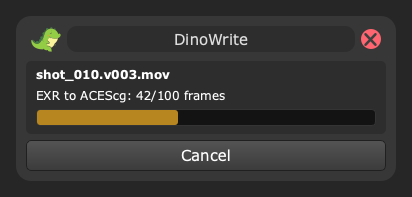
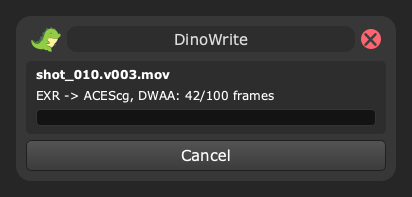
README and images: new window layout, animations, EXR compression, passport, scene audio, disk space

Changed region(s): [[0.1456, 0.4569, 0.6699, 0.5178], [0.0874, 0.5482, 0.4369, 0.6396]]

diff --git a/docs/make_images.py b/docs/make_images.py
@@ -17,8 +17,8 @@ ROOT = DOCS.parent
 sys.path.insert(0, (ROOT / "tests").as_posix())
 import conftest  # noqa: F401,E402  (hou stub, offscreen Qt, DinoWrite on sys.path)
 from PySide6 import QtWidgets  # noqa: E402
-from PySide6.QtCore import QPointF, QSize  # noqa: E402
-from PySide6.QtGui import QColor, QPainter, QPixmap  # noqa: E402
+from PySide6.QtCore import QEvent, QPointF, QSize  # noqa: E402
+from PySide6.QtGui import QColor, QEnterEvent, QPainter, QPixmap  # noqa: E402
 from PySide6.QtTest import QTest  # noqa: E402
 
 BACKGROUND = QColor("#262626")
@@ -62,7 +62,7 @@ def fakeHoudini(temp: Path):
     hou.getenv = lambda name, default=None: PREF_DIR if name == "HOUDINI_USER_PREF_DIR" else default
     hou.fps = lambda: 24.0
 
-    from DinoWrite.core import acescg, ffmpeg, viewport
+    from DinoWrite.core import acescg, ffmpeg, helpers, viewport
 
     viewer = types.SimpleNamespace(cameraName=lambda: "shotCam", cameraPixelAspect=lambda: 1.0,
                                    cameraResolution=lambda: (3840, 2160), cameraAspect=lambda: 16 / 9,
@@ -72,13 +72,14 @@ def fakeHoudini(temp: Path):
     ffmpeg.availableEncoders = lambda binary: {"h264_mf", "h264_nvenc", "mpeg4"}
     acescg.findOiiotool = lambda custom="": "$HFS/bin/hoiiotool"
     acescg.oiiotoolVersion = lambda tool: ()
+    helpers.freeSpace = lambda path: 512 * 1024 ** 3
     return main_window
 
 
 class FakeJob:
     """Conversion in the middle of EXR -> ACEScg, for the progress window"""
     title = "shot_010.v003.mov"
-    status = "EXR to ACEScg: 42/100 frames"
+    status = "EXR -> ACEScg, DWAA: 42/100 frames"
     progress = 0.42
     finished = succeeded = False
     error = ""
@@ -101,6 +102,7 @@ def main():
 
         window = DinoWrite.show({})
         stopFade(window)
+        QTest.qWait(900)  # parts of the window come in one after another
         window.filename.setText("shot_010")
         window.resx.setText("3840")
         window.resy.setText("2160")
@@ -109,10 +111,10 @@ def main():
         window.convertvideo.setChecked(True)
         for update in (window.updateRamUsage, window.updateColorfulLabel, window.updateStatus):
             update()
-        app.processEvents()
+        QTest.qWait(600)  # changed text blinks in
         onBackground(window).save((DOCS / "dinowrite.png").as_posix())
 
-        # Animation: hover a menu button, then WRITE
+        # Animation: hover a menu button, toggle a checkbox, new name (dino hops), then WRITE
         frames = []
 
         def record(count: int, wait: bool = True):
@@ -126,6 +128,14 @@ def main():
         window.res_menu.startHover(QPointF(6, 6))
         record(12)
         window.res_menu.endHover()
+        window.convertvideo.enterEvent(QEnterEvent(QPointF(5, 5), QPointF(5, 5), QPointF(5, 5)))
+        record(6)
+        window.convertvideo.setChecked(False)
+        record(10)
+        window.convertvideo.leaveEvent(QEvent(QEvent.Leave))
+        window.filename.setText("shot_020")
+        window.updateColorfulLabel()
+        record(14)
         window.writebutton.startHover(QPointF(90, 20))
         record(18)
         window.writebutton.endHover()
@@ -137,7 +147,7 @@ def main():
         window.resy.setText("1600")
         window.updateRamUsage()
         window.updateStatus()
-        app.processEvents()
+        QTest.qWait(600)
         onBackground(window.statusline.parentWidget(), pad=8).save((DOCS / "aspect_warning.png").as_posix())
         window.close()
 
@@ -147,7 +157,7 @@ def main():
         app.processEvents()
         onBackground(dialog).save((DOCS / "settings.png").as_posix())
         dialog.findChild(QtWidgets.QTabWidget).setCurrentIndex(1)
-        app.processEvents()
+        QTest.qWait(600)  # the page fades in
         onBackground(dialog).save((DOCS / "settings_video.png").as_posix())
         dialog.close()
 

diff --git a/README.md b/README.md
@@ -4,7 +4,7 @@ Write flipbooks to disk easily. A pure Python tool for Houdini.
 
 <p align="center">
   <img src="docs/dinowrite.png" width="49%" alt="DinoWrite window">
-  <img src="docs/dinowrite_animation.gif" width="49%" alt="Hover wave, zoom and WRITE press animation">
+  <img src="docs/dinowrite_animation.gif" width="49%" alt="Hover wave, checkbox glow, dino hop on a new name">
 </p>
 
 ## Features
@@ -13,11 +13,17 @@ Write flipbooks to disk easily. A pure Python tool for Houdini.
  - True resolution: a 4K flipbook on a 2K monitor is recorded in a torn off copy of the viewer sized to 4K (bigger than the screen) instead of stretching the viewport
  - Convert the sequence to video in the background with ffmpeg that ships with Houdini: Houdini stays usable, a small window shows progress and can cancel
  - Video colors match MPlay right after recording, EXR are converted to ACEScg for Nuke/comp
+ - Kept EXR are compressed with DWAA (several times smaller) and carry a flipbook passport in the header: hip, camera,
+   frame range, OCIO view, user, date. The video carries the same passport in its metadata
+ - Scene audio (the file in Houdini's Audio panel) goes into the video, synced like in the playbar
+ - Memory line: RAM for MPlay and the disk space the flipbook needs vs free space (orange/red when it may not fit)
  - Status line shows how the flipbook will be recorded and encoded, flipbook name is checked while typing
  - Opens the result when done: the converted video or the folder
  - Settings dialog behind the gear button, your settings survive tool updates
  - Remembers last used values
- - Animations in the HotBox style: windows fade in/out; on hover a white wave spreads from the cursor and the button gets lighter and a bit bigger
+ - Animations in the HotBox style: windows fade in/out, window parts come in one after another; on hover a white
+   wave spreads from the cursor and the button gets lighter and a bit bigger; checkboxes glow on hover and flash on
+   toggle; changed info text blinks in; a wrong name shakes; the dino hops on a new name/version; menus fade in
  - Supports multiple viewports
  - Shows existing flipbooks (can grab their name)
  - Grabs resolution from the camera (OBJ camera, or Solaris render settings / USD camera) or divides it; warns when the resolution would stretch the image
@@ -66,8 +72,8 @@ Click the gear button in the window title. Tabs:
 
 | tab | what |
 |---|---|
-| General | flipbooks folder, file name template, video extension, recording viewer, incomplete flipbook cleanup |
-| Video | what to open after writing, sequence cleanup; shows which ffmpeg and encoders are found |
+| General | flipbooks folder, file name template, video extension, recording viewer, EXR compression, incomplete flipbook cleanup, ACEScg |
+| Video | what to open after writing, scene audio, sequence cleanup; shows which ffmpeg and encoders are found |
 | Presets | resolution and frame range presets for the dropdown menus |
 
 ffmpeg path, encoder and the ffmpeg command template (`advanced.ffmpeg_path`, `advanced.video_codec`, `ffmpeg_cmd`)
@@ -84,7 +90,7 @@ Last used window values are kept next to it in `last_used.json`.
 - `always`: always records in the copy
 - `off`: maximized viewport, Houdini scales the image to the resolution
 
-Solaris (LOP) viewers are always recorded in the maximized viewport: Solaris keeps its lighting (Headlight Only...) in options that can't be copied, a viewer copy would record with Normal Lighting. Black background and Off Background Image are greyed out there: setting any viewport display option from Python in Solaris resets the lighting (Houdini bug).
+Solaris (LOP) viewers are always recorded in the maximized viewport: Solaris keeps its lighting (Headlight Only...) in options that can't be copied, a viewer copy would record with Normal Lighting. "Black background" and "Hide BG image" are greyed out there: setting any viewport display option from Python in Solaris resets the lighting (Houdini bug).
 
 Some OSes (macOS, some Linux window managers) don't allow windows bigger than the screen: then a warning is logged and the image is scaled as before. On HiDPI screens a 4K viewport fits into a smaller window.
 
@@ -118,17 +124,33 @@ the viewport as seen.
   it's a preview, not a render. Skipped when the viewer doesn't use OCIO, the config isn't an ACES one,
   hoiiotool or PyOpenColorIO aren't found, or the sequence is deleted after the video. If it fails, the EXR stay as recorded.
 
-After recording, video and ACEScg conversion run in the background, Houdini stays usable:
+- **EXR compression** (`advanced.exr_compression`: `dwaa` default, `zip`, `piz`, `none`): applied in the same
+  hoiiotool pass, also when ACEScg is off or not possible.
+
+### Flipbook passport
+Where a flipbook came from, written right after recording: `hip`, `camera`, `frame_range`, `resolution`, `fps`,
+`ocio_view`, `audio`, `user`, `host`, `date`, `houdini`, `dinowrite`.
+- EXR: header attributes `dinowrite:hip`, ... (Nuke: Read node → Metadata tab, `exr/dinowrite:hip`), plus the
+  standard owner and comments
+- Video: `title`, `artist`, `comment`, `date` and `dinowrite_hip`, ... (`ffprobe`, a player's media info)
+
+### Scene audio
+`advanced.video_audio` (on by default, Settings → Video): the file set in Houdini's Audio panel (playbar sound) goes
+into the video, synced like in the playbar (Audio panel "sync frame" and offset). The video keeps its length:
+shorter sound is padded with silence. CHOP audio isn't supported. Nothing happens when no file is set.
+
+After recording, video and the EXR pass run in the background, Houdini stays usable:
 
 <p align="center">
-  <img src="docs/progress.png" width="45%" alt="Progress window: EXR to ACEScg">
+  <img src="docs/progress.png" width="45%" alt="Progress window: EXR pass">
 </p>
 
 ### Video codec
 `advanced.video_codec`: `auto` (default) or an encoder name. ffmpeg that ships with Houdini (`hffmpeg`) is built
 without GPL parts and has **no libx264**, so `auto` asks ffmpeg which encoders it has and tries
 `libx264` → `h264_videotoolbox` (macOS) → `h264_mf` (Windows) → `h264_nvenc` / `h264_amf` / `h264_qsv` → `mpeg4`,
-moving to the next one if an encoder fails. The `{codec}` line in the ffmpeg command expands to the encoder arguments.
+moving to the next one if an encoder fails. The `{codec}` line in the ffmpeg command expands to the encoder arguments, `{audio_input}` / `{audio}` to the scene
+sound, `{metadata}` to the passport.
 
 ### Tools lookup
 - ffmpeg: `advanced.ffmpeg_path` → `$PDG_FFMPEG` → `$HFS/bin/hffmpeg` (ships with Houdini) → system PATH
@@ -174,8 +196,10 @@ Project layout:
 | `core/` | Houdini logic without Qt |
 | `core/viewport.py` | Scene Viewer wrapper, torn off copy at true resolution |
 | `core/ffmpeg.py` | ffmpeg lookup, command and color filters |
-| `core/conversion.py` | after recording: video (encoder fallback) → EXR to ACEScg, polled without blocking |
-| `core/acescg.py` | EXR → ACEScg via hoiiotool (inverse of the viewer's OCIO display/view) |
+| `core/conversion.py` | after recording: video (encoder fallback, audio, passport) → EXR pass, polled without blocking |
+| `core/acescg.py` | EXR pass via hoiiotool: ACEScg (inverse of the viewer's OCIO display/view), compression, passport |
+| `core/passport.py` | flipbook passport for EXR headers and video metadata |
+| `core/audio.py` | scene audio from the Audio panel, ffmpeg sync arguments |
 | `core/process.py` | polled external process (no threads: hou is not thread safe) |
 | `core/helpers.py`, `core/log.py` | versions, frame/name parsing, logging |
 | `gui/` | Qt: `qt.py` (PySide6/PySide2), theme, frameless windows, widgets, animations, settings dialog, progress window |
